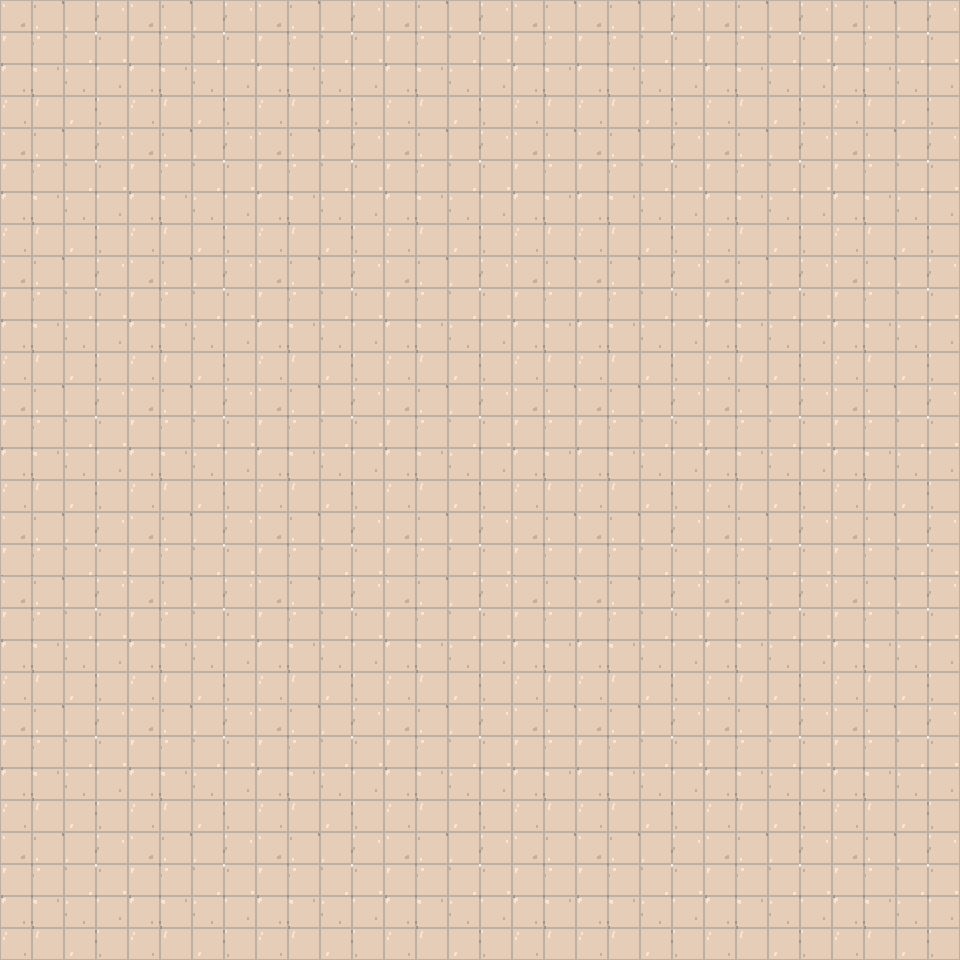
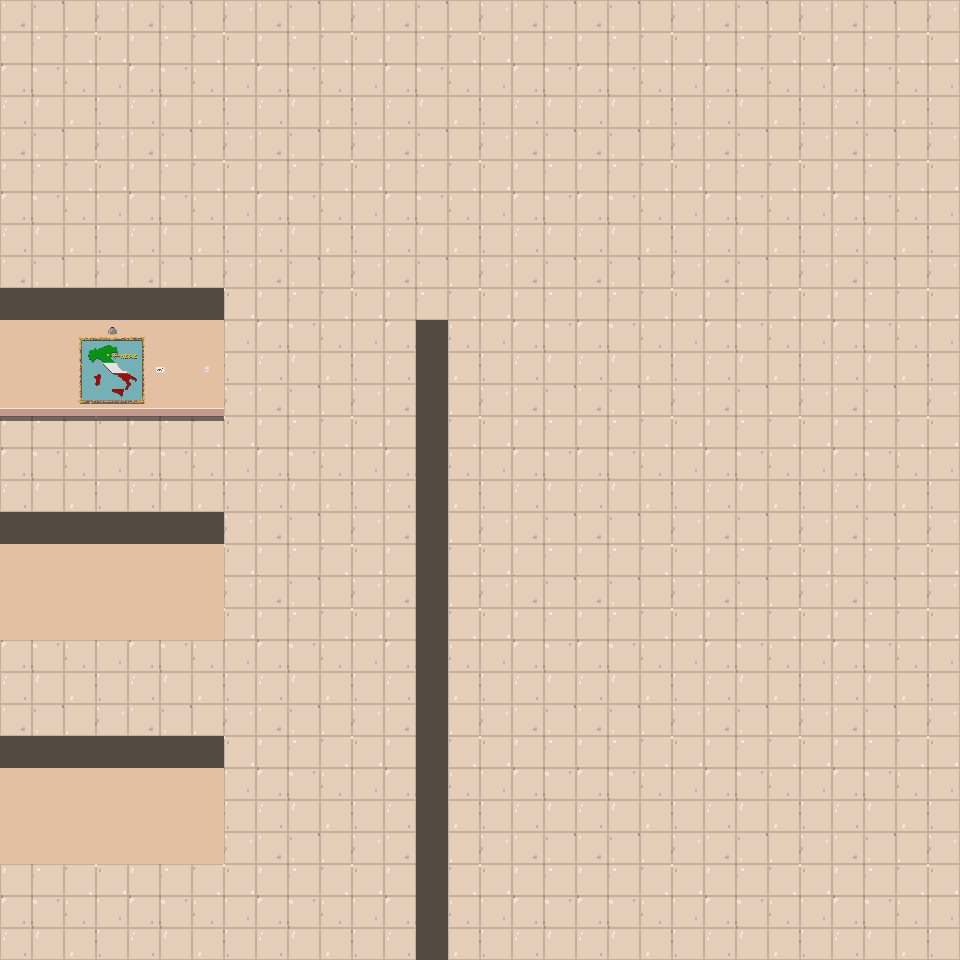
obstacles with code

diff --git a/script.js b/script.js
@@ -50,7 +50,7 @@ class Background{
     }
     move(moveLeft, moveTop){
         
-        if(obstacleMode ||( this.checkBorders(moveLeft,moveTop) && obstaclesEl.checkObstacle(this.x +PlayerEl.speed*moveLeft,this.y +PlayerEl.speed*moveTop))){
+        if(obstacleMode ||( this.checkBorders(moveLeft,moveTop) && obstaclesEl.checkObstacle(this.x +PlayerEl.speed*moveLeft,this.y +PlayerEl.speed*moveTop)!=0)){
             this.x +=PlayerEl.speed*moveLeft;
             this.y +=PlayerEl.speed*moveTop;
             this.element.style.left = this.x + "px";
@@ -81,7 +81,7 @@ class Obstacles{
         }
         for (var i = 0; i < Math.floor(backgroundEl.width/unit); i++) {
             for (var j = 0; j < Math.floor(backgroundEl.height/unit); j++) {
-                this.obs[i][j] = 0;
+                this.obs[i][j] = 1;
             }
         }
 
@@ -89,68 +89,44 @@ class Obstacles{
     }
     
     checkObstacle(left,top){
-        //console.log(-(Math.floor(left/unit)-4));
-        //console.log(-(Math.floor(top/unit)-3));
-        return this.obs[-(Math.floor(left/unit)-4)][-(Math.floor(top/unit)-3)] ===0 ? true : false;
+        return this.obs[-(Math.floor(left/unit)-4)][-(Math.floor(top/unit)-3)];
     }
 
     setObstacle(){ 
-        this.obs[3][2] = 1;
-this.obs[4][2] = 1;
-this.obs[5][2] = 1;
-this.obs[6][2] = 1;
-this.obs[7][2] = 1;
-this.obs[9][2] = 1;
-this.obs[8][2] = 1;
-this.obs[10][2] = 1;
-this.obs[11][2] = 1;
-this.obs[11][2] = 1;
-this.obs[12][2] = 1;
-this.obs[13][2] = 1;
-this.obs[13][4] = 1;
-this.obs[13][3] = 1;
-this.obs[13][5] = 1;
-this.obs[13][6] = 1;
-this.obs[13][7] = 1;
-this.obs[13][8] = 1;
-this.obs[13][9] = 1;
-this.obs[13][10] = 1;
-this.obs[13][11] = 1;
-this.obs[13][12] = 1;
-this.obs[13][13] = 1;
-this.obs[13][15] = 1;
-this.obs[13][14] = 1;
-this.obs[13][17] = 1;
-this.obs[13][16] = 1;
-this.obs[12][16] = 1;
-this.obs[11][16] = 1;
-this.obs[10][16] = 1;
-this.obs[9][16] = 1;
-this.obs[8][16] = 1;
-this.obs[6][16] = 1;
-this.obs[7][16] = 1;
-this.obs[4][16] = 1;
-this.obs[5][16] = 1;
-this.obs[3][16] = 1;
-this.obs[1][16] = 1;
-this.obs[2][16] = 1;
-this.obs[2][15] = 1;
-this.obs[2][15] = 1;
-this.obs[2][14] = 1;
-this.obs[2][13] = 1;
-this.obs[2][13] = 1;
-this.obs[2][12] = 1;
-this.obs[2][11] = 1;
-this.obs[2][9] = 1;
-this.obs[2][10] = 1;
-this.obs[2][8] = 1;
-this.obs[2][6] = 1;
-this.obs[2][7] = 1;
-this.obs[2][5] = 1;
-this.obs[2][4] = 1;
-this.obs[2][3] = 1;
-this.obs[2][3] = 1;
-this.obs[2][2] = 1;
+        this.obs[3][7] = 0;
+        this.obs[1][1]=4;
+        this.obs[1][2]=4;
+        this.obs[1][3]=4;
+        this.obs[1][4]=4;
+        this.obs[1][5]=4;
+        this.obs[2][1]=4;
+        this.obs[2][2]=4;
+        this.obs[2][3]=4;
+        this.obs[2][4]=4;
+        this.obs[2][5]=4;
+this.obs[4][7] = 0;
+this.obs[5][7] = 0;
+this.obs[6][7] = 0;
+this.obs[6][6] = 0;
+this.obs[7][6] = 0;
+this.obs[7][4] = 0;
+this.obs[7][5] = 0;
+this.obs[8][5] = 0;
+this.obs[9][4] = 0;
+this.obs[10][4] = 0;
+this.obs[10][4] = 0;
+this.obs[10][5] = 0;
+this.obs[9][5] = 0;
+this.obs[9][6] = 0;
+this.obs[10][6] = 0;
+this.obs[12][6] = 0;
+this.obs[11][6] = 0;
+this.obs[11][7] = 0;
+this.obs[12][7] = 0;
+this.obs[12][9] = 0;
+this.obs[12][8] = 0;
+this.obs[12][10] = 0;
+this.obs[11][10] = 0;
     }
 }
 
@@ -165,6 +141,11 @@ var t = setInterval(function(){
         backgroundEl.move(l+r,u+d);
         //console.log(obstaclesEl.obs);
         //console.log(backgroundEl.x);
+    }
+    if(obstaclesEl.checkObstacle(backgroundEl.x,backgroundEl.y)>1){
+        document.getElementById("background").style.filter="invert(100%)";
+    }else{
+        document.getElementById("background").style.filter="invert(0%)";
     }
 },60);
 
@@ -249,8 +230,8 @@ function moveSquares(moveLeft, moveTop){
 
 
 function createSquare() {
-    obstaclesEl.obs[-(backgroundEl.x/unit-5)][-(backgroundEl.y/unit-4)] = 1;
-    console.log(borderString+=`this.obs[${-(backgroundEl.x/unit-5)}][${-(backgroundEl.y/unit-4)}] = 1;\n`);
+    //obstaclesEl.obs[-(backgroundEl.x/unit-5)][-(backgroundEl.y/unit-4)] = 0;
+    console.log(borderString+=`this.obs[${-(backgroundEl.x/unit-5)}][${-(backgroundEl.y/unit-4)}] = 0;\n`);
     var mydiv = document.createElement("div");
     mydiv.id = `highlight${squares}`;
     mydiv.style.left= 4*unit+"px";
